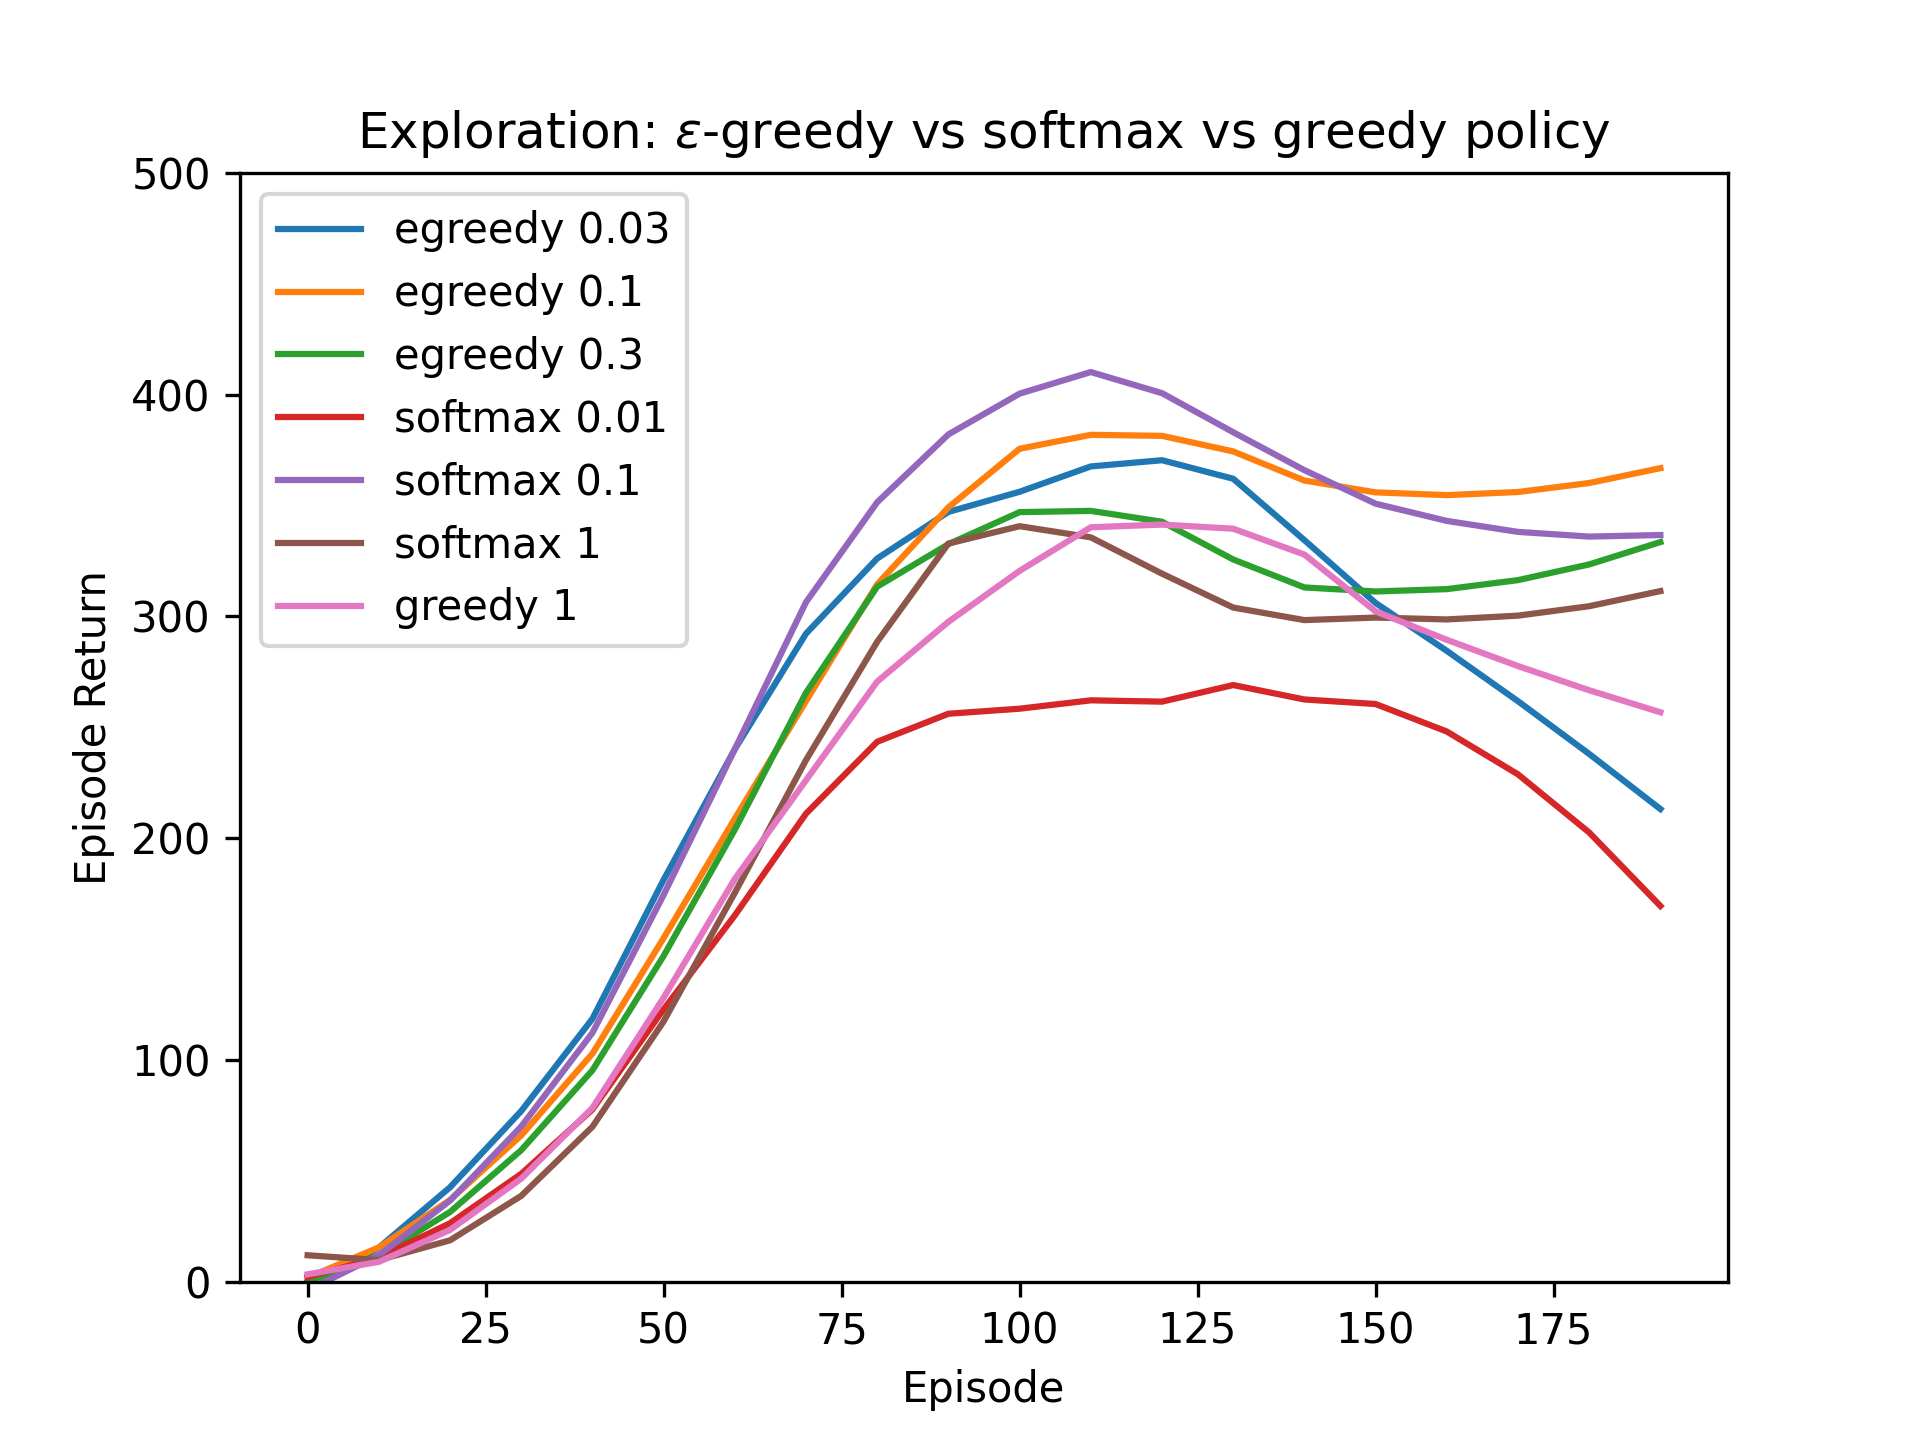
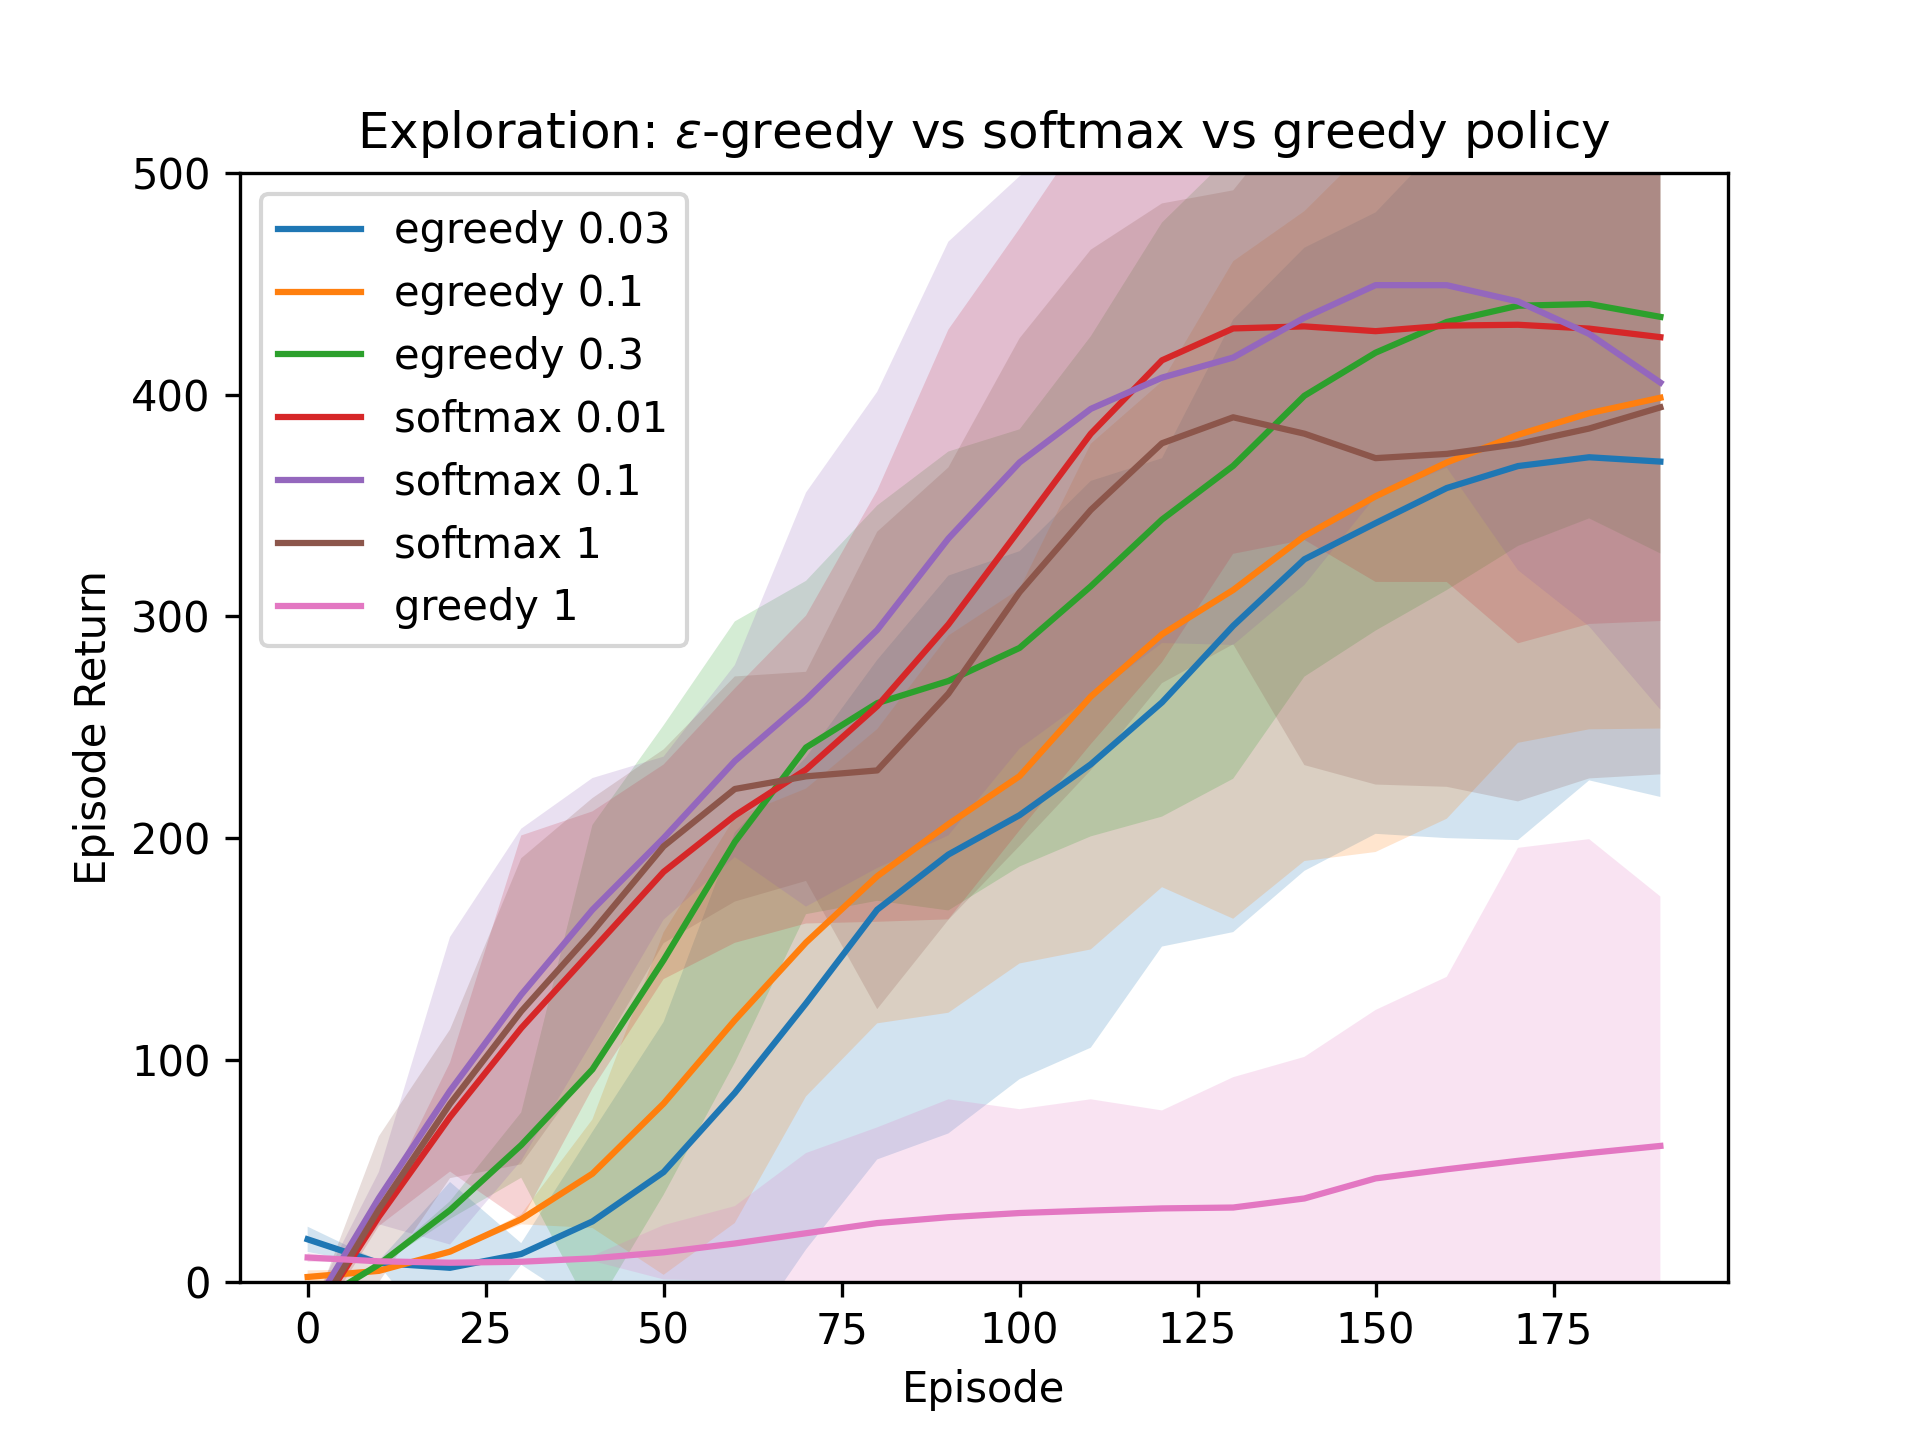
final update

diff --git a/Experiment.py b/Experiment.py
@@ -19,7 +19,7 @@ GAMMA = 1
 args = argparse.Namespace(
     ER=True,
     TN=True,
-    anneal=True,
+    anneal=False,
     num_episodes=200,
     eval_episodes=EVAL_EPISODES,
     eval_interval=10,
@@ -40,14 +40,12 @@ def run_experiment(Plot, label: str, values, method):
             args.lr = value
         elif method == "num_steps":
             args.steps = value
-
+        print(f"args=================>: {args}")
         episodes, average_returns, std = average_over_repetitions(ENV, args)
         Plot.add_curve(
-            episodes,
-            average_returns,
-            label=label + " " + str(value),
-            std_dev = std
+            episodes, average_returns, label=label + " " + str(value), std_dev=std
         )
+        print(f"args after =================>: {args}")
         path = "./results/std/"
         if not os.path.exists(path):
             os.mkdir(path)

diff --git a/AgentTrainer.py b/AgentTrainer.py
@@ -21,7 +21,6 @@ def main(raw_args=None):
     ##############################################################################################################
     # Parsing command line arguments
     ##############################################################################################################
-
     argparser = argparse.ArgumentParser()
     argparser.add_argument(
         "--ER", default=True, action="store_true", help="Experience Replay"
